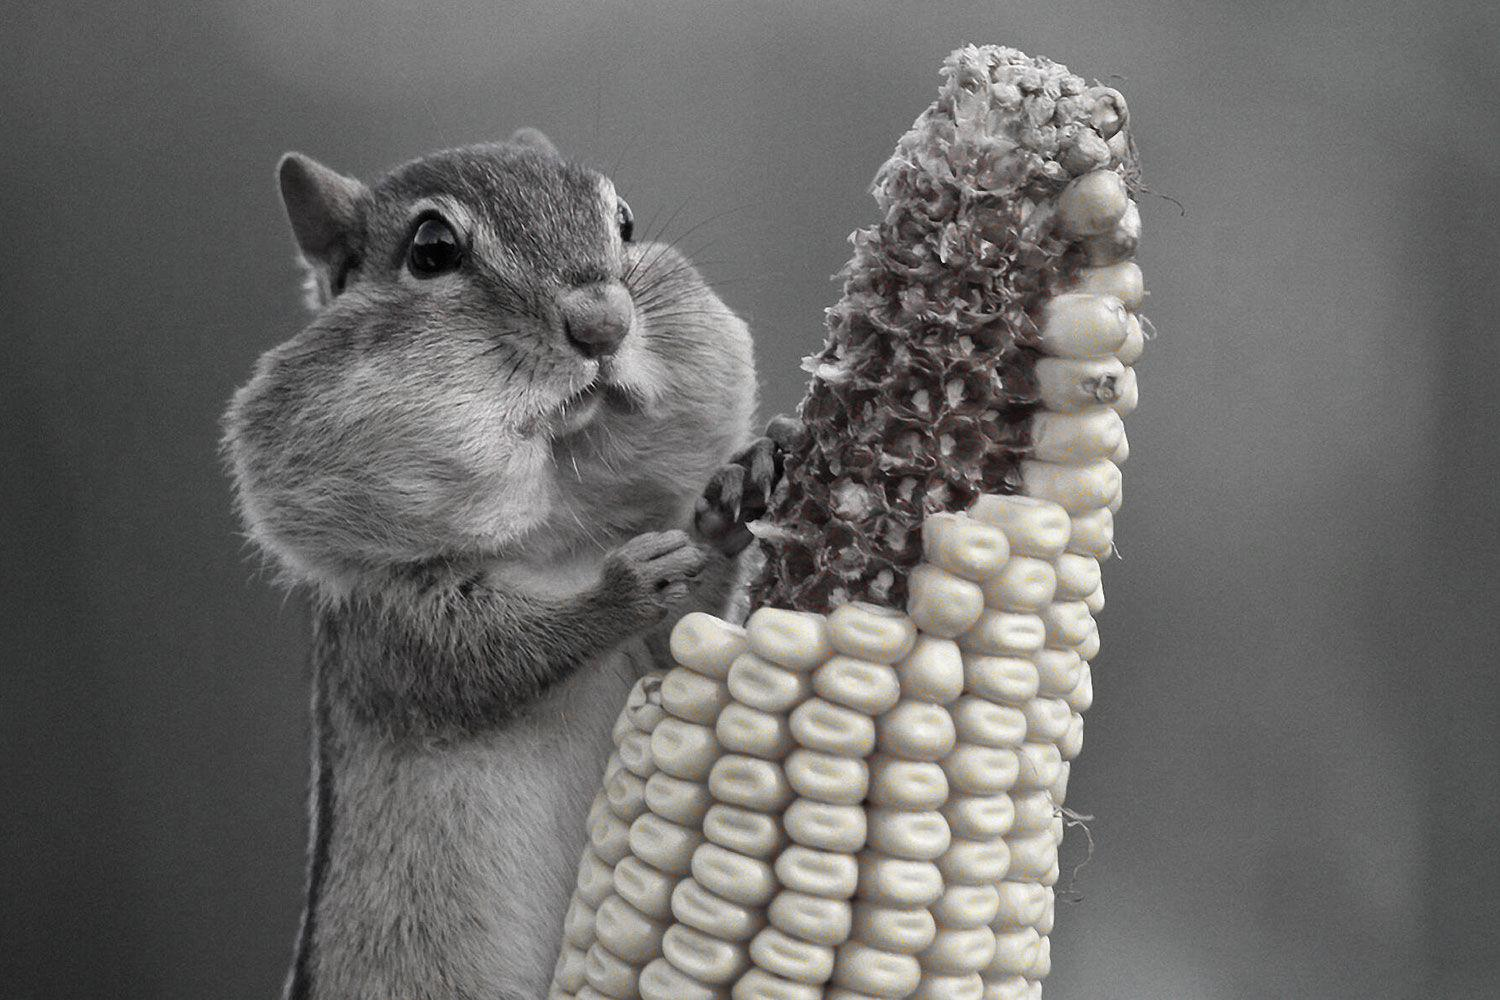
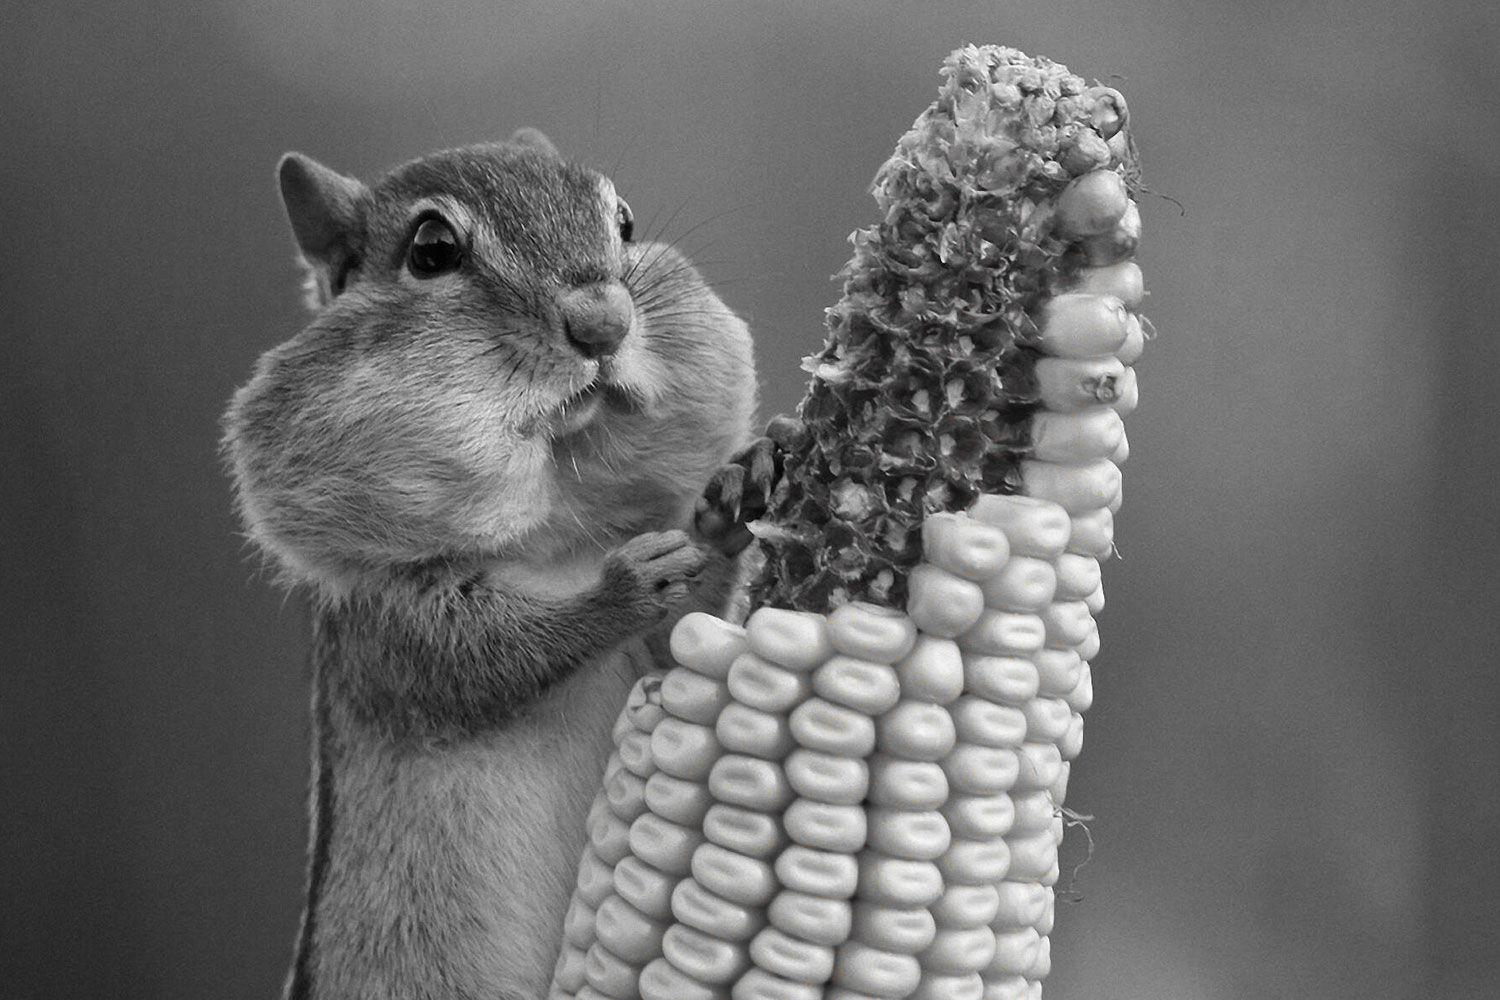
random colurization

diff --git a/examples_matplotlib.py b/examples_matplotlib.py
@@ -2,7 +2,7 @@ import matplotlib.pyplot as plt
 import numpy as np
 
 # load RGB image in numpy array
-img = plt.imread('image.jpg')
+img = plt.imread('image2.jpg')
 
 # convert to grayscale
 img_gray = np.dot(img[...,:3], [0.299, 0.587, 0.114])
@@ -11,7 +11,7 @@ img_gray = np.dot(img[...,:3], [0.299, 0.587, 0.114])
 img_gray = np.round(img_gray).astype(np.uint8)
 
 # save grayscale image
-plt.imsave('image_gray.jpg', img_gray, cmap='gray')
+plt.imsave('image_gray2.jpg', img_gray, cmap='gray')
 
 # show grayscale image
 plt.imshow(img_gray, cmap='gray')
@@ -19,16 +19,18 @@ plt.imshow(img_gray, cmap='gray')
 # show RGB image
 plt.imshow(img)
 
-# make grayscale image into a colured image
+# make grayscale image into a coloured image
 img_gray_3d = np.stack((img_gray,)*3, axis=-1)
 
 # replace the pixels of the grayscale image with the pixels of the original image
 percentage = 0.1
 mask = np.random.rand(*img_gray.shape) < percentage
+print(img.shape)
 img_gray_3d[mask, :] = img[mask, :]
 
 # save the new image
-plt.imsave('image_coloured.jpg', img_gray_3d)
+plt.imsave('image_coloured2.jpg', img_gray_3d)
+
 
 
 
